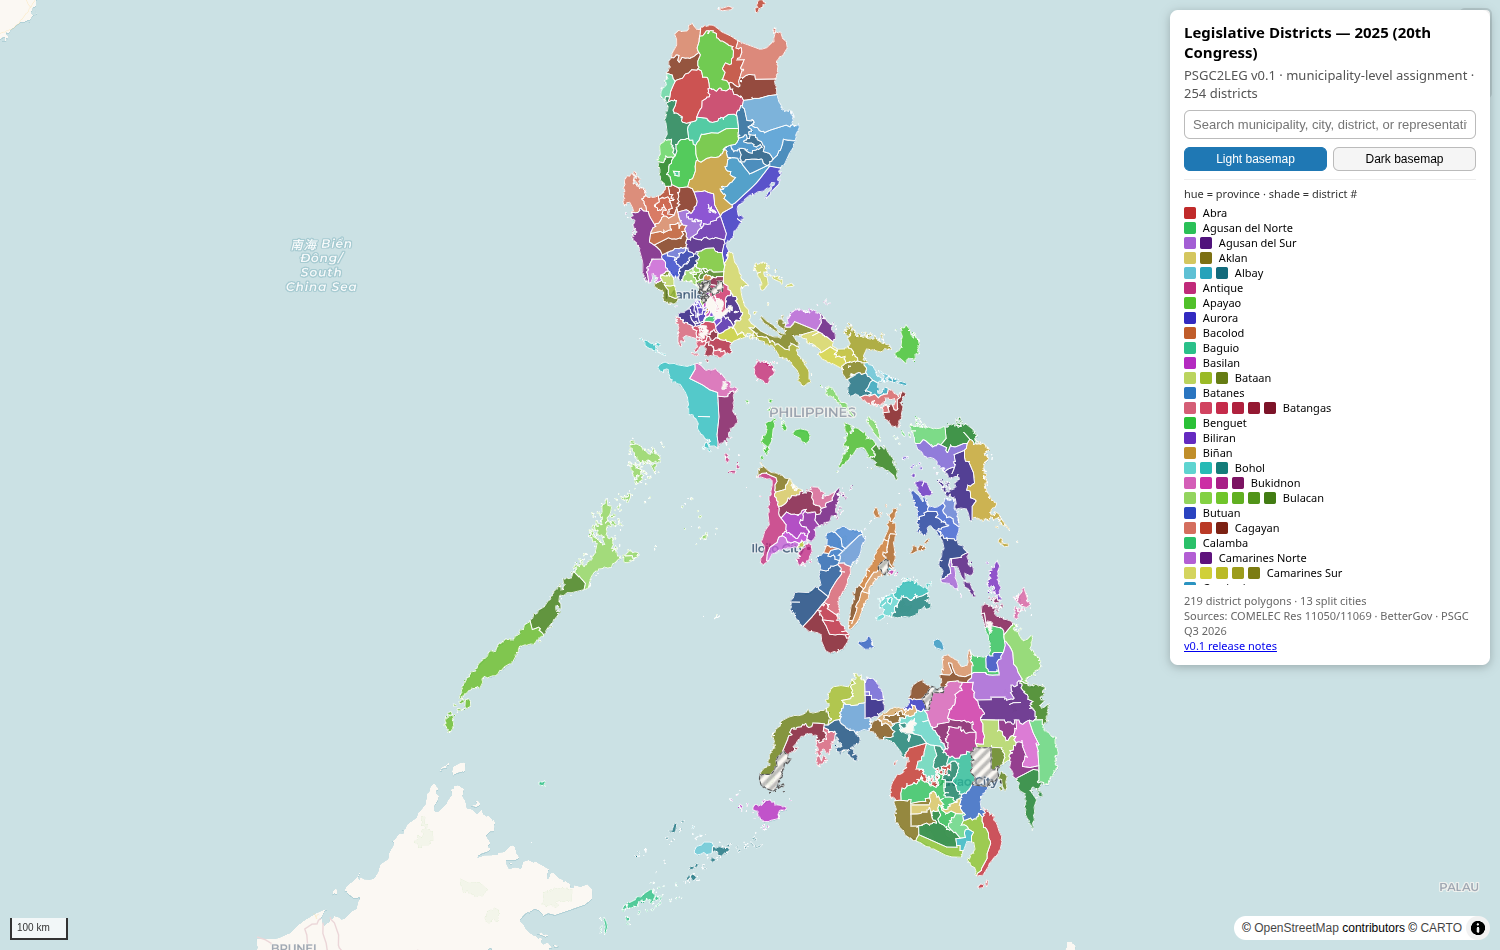
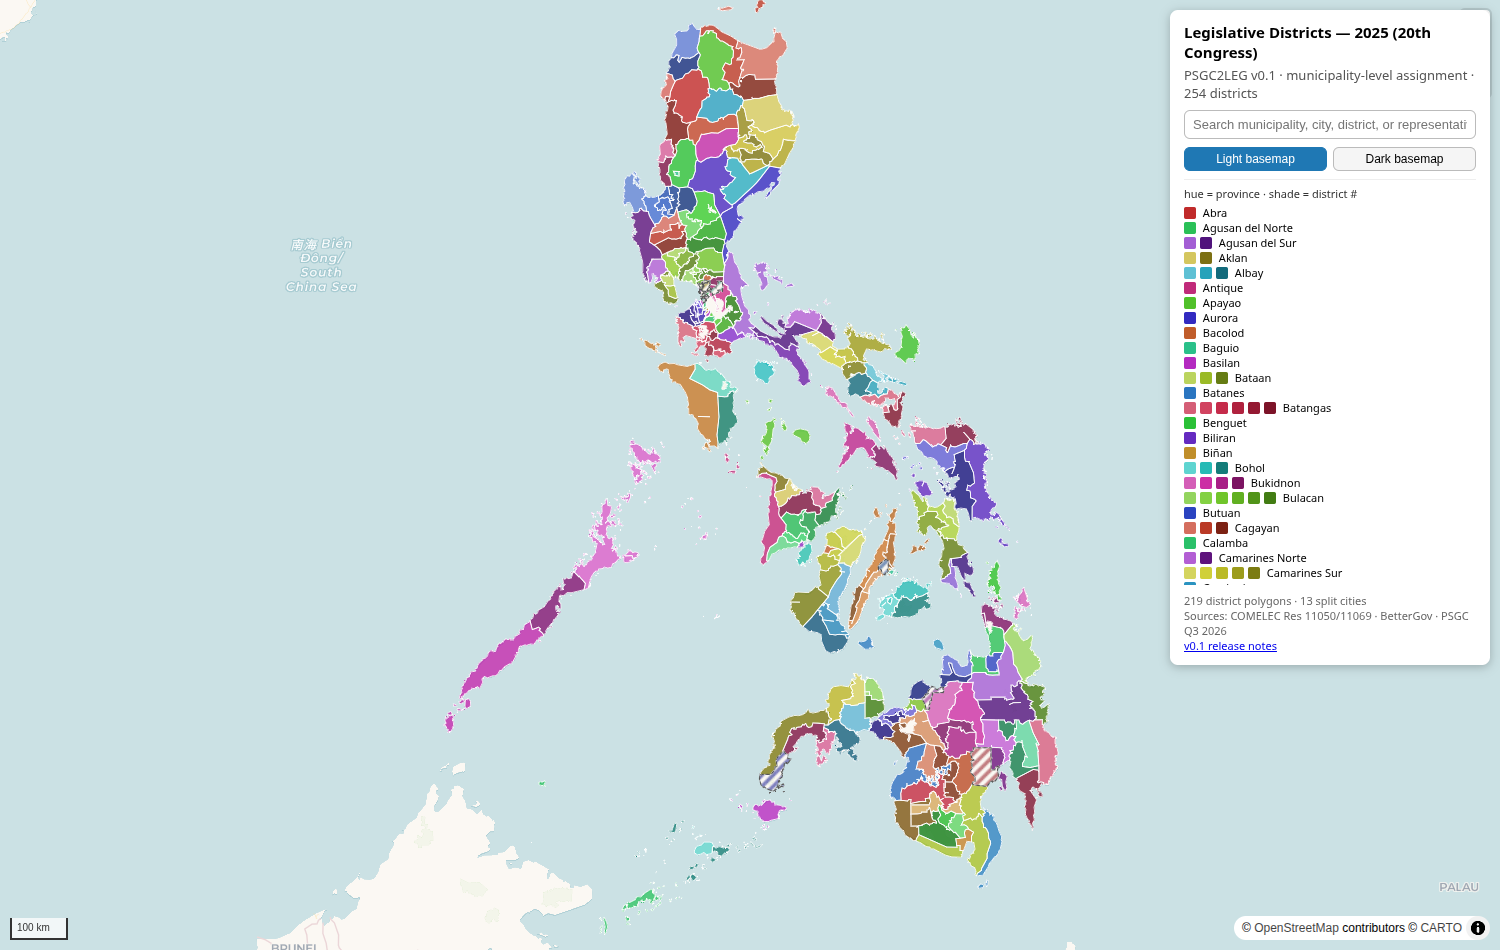
viz: distinct split-city stripes + district label layers
Split cities: each of the 13 now gets its own hue-tinted stripe pattern
(was uniform grey, which made Manila/QC/Caloocan indistinguishable —
exactly what a reader scanning Metro Manila needs to tell apart).
They join the same golden-angle hue sequence as provinces so they
cannot collide with province hues either. Implemented via data-driven
fill-pattern (cross-faded-data-driven per the bundled v8 spec) with one
registered image per city, re-registered after basemap swaps (hasImage
guard). Legend lists each split city with its tinted swatch.

Labels: two symbol layers using the basemap's own key-free CARTO glyph
pipeline (verified Open Sans Bold/Italic PBF ranges return 200):
- district-labels (z>=6.5 fade-in): jurisdiction + district_label,
  halo, sorted by district_no
- split-labels (z>=7.5): italic city names

Bug found while testing: text-opacity is a paint property, not layout —
in layout it fails layer validation and silently drops the whole layer
(MapLibre logs to console but addLayer does not throw). Both layers were
initially invisible because of this; moved to paint.

Verified headless (SwiftShader, single launch): 103/103 distinct hues,
13 distinct split patterns, 0 missing images before and after style
swap, 34 labels rendered at Bicol z8.2, split-city labels at Metro
Manila z10.5, search zooms (camarines sur -> 9.3), all 6 district
layers survive dark toggle, panel fits viewport, no page errors.

diff --git a/PSGC2LEG/viz/index.html b/PSGC2LEG/viz/index.html
@@ -111,6 +111,7 @@ let HUE_ORDER = [];             // sorted jurisdiction names (assigned in buildC
 let JURISDICTION_INFO = [];     // [{name, districts: Map(no->label)}]
 const colorCache = new Map();   // juris|no -> hsl string
 const swatches = new Map();     // juris -> [{no, color}] for the legend
+const SPLIT_HUES = new Map();   // split-city name -> registered stripe image name
 
 // Lightness 60%..28% with saturation easing up for darker shades.
 // 1st district = lightest, highest = darkest.
@@ -151,17 +152,48 @@ function buildColorDictionary() {
       .set(p.district_no ?? 0, p.district_label));
   }
   JURISDICTION_INFO = [...byName.entries()].map(([name, districts]) => ({ name, districts }));
+
+  // Split cities join the same golden-angle hue sequence. They used to be
+  // uniform grey, which made all 13 interchangeable — but a reader scanning
+  // Metro Manila needs Manila ≠ Caloocan ≠ Parañaque at a glance. Each gets
+  // its own hue, rendered as that hue's stripe pattern instead of a flat fill
+  // (stripes still signal "district split unresolved").
+  const splitNames = [...new Set(districtFeatures
+    .filter(f => f.properties.split)
+    .map(f => f.properties.jurisdiction))];
+  for (const n of splitNames) SPLIT_HUES.set(n, slug(n));
+
   // Sort deterministically so the golden-angle hue index is stable across
   // sessions and geojson rebuilds (feature order in the file can shift).
-  HUE_ORDER = JURISDICTION_INFO.map(j => j.name)
+  // Split cities are included so they cannot collide with a province hue.
+  HUE_ORDER = [...JURISDICTION_INFO.map(j => j.name), ...splitNames]
     .sort((a, b) => a.localeCompare(b, 'en', { sensitivity: 'base' }));
 }
 
-function makeStripePattern() {
+// Register one stripe image per split city, tinted with that city's hue.
+// Must run before the split-fill layer is added, and again after every
+// basemap swap (setStyle drops registered images).
+function addSplitStripeImages() {
+  for (const [name, imgName] of SPLIT_HUES) {
+    if (map.hasImage(imgName)) continue;
+    const idx = HUE_ORDER.indexOf(name);
+    const h = idx < 0 ? 0 : Math.round((idx * GOLDEN_ANGLE) % 360);
+    // mid-lightness, high saturation: dark enough to read over both the
+    // cream Voyager land and Dark Matter's near-black, not so dark it
+    // swallows the hatching
+    map.addImage(imgName, makeStripePattern(`hsl(${h}, 70%, 34%)`), { sdf: false });
+  }
+}
+
+// Stripe pattern for split cities. Parameterized by stroke colour so each
+// split city gets its *own* tint: 13 identical grey hatchings made Manila
+// and Caloocan and Cebu City indistinguishable from each other, which is
+// the one thing a reader needs when scanning the map.
+function makeStripePattern(stroke = '#8a8a8a') {
   const c = document.createElement('canvas');
   c.width = c.height = 8;
   const ctx = c.getContext('2d');
-  ctx.strokeStyle = '#8a8a8a';
+  ctx.strokeStyle = stroke;
   ctx.lineWidth = 2.5;
   ctx.beginPath();
   ctx.moveTo(-2, 10); ctx.lineTo(10, -2);
@@ -169,6 +201,13 @@ function makeStripePattern() {
   ctx.moveTo(6, 10);  ctx.lineTo(10, 6);
   ctx.stroke();
   return ctx.getImageData(0, 0, 8, 8);
+}
+
+// Safe image-name slug for split-city stripe patterns.
+function slug(s) {
+  return 'split-' + String(s).toLowerCase()
+    .normalize('NFKD').replace(/[\u0300-\u036f]/g, '')
+    .replace(/[^a-z0-9]+/g, '-').replace(/^-|-$/g, '');
 }
 
 function popupText(p) {
@@ -202,7 +241,11 @@ let selectedIds = new Set();
 // (Re)add the district source + layers. Called on initial load and again
 // after every basemap style swap (setStyle with diff:false drops them).
 function addDistrictLayers() {
-  map.addImage('stripes', makeStripePattern(), { sdf: false });
+  // grey fallback for any split city without a tinted pattern, then one
+  // per-city tinted stripe (re-registered after each basemap swap, since
+  // setStyle drops images — hasImage guards against duplicates)
+  if (!map.hasImage('stripes')) map.addImage('stripes', makeStripePattern(), { sdf: false });
+  addSplitStripeImages();
 
   map.addSource('districts', { type: 'geojson', data: districtData, generateId: true });
 
@@ -228,14 +271,16 @@ function addDistrictLayers() {
     }
   });
 
-  // split cities (striped)
+  // split cities (per-city tinted stripes)
   map.addLayer({
     id: 'split-fill',
     type: 'fill',
     source: 'districts',
     filter: ['==', ['get', 'split'], true],
     paint: {
-      'fill-pattern': 'stripes',
+      // data-driven (cross-faded-data-driven per the v8 spec): each split
+      // city renders its own hue-tinted stripe image registered above
+      'fill-pattern': ['coalesce', ['get', 'pattern'], 'stripes'],
       'fill-opacity': 0.55,
     }
   });
@@ -270,6 +315,59 @@ function addDistrictLayers() {
   });
   // dashed needs setPaintProperty after add (dasharray not transitionable)
   map.setPaintProperty('split-line-dash', 'line-dasharray', [2, 1.5]);
+
+  // district labels (zoomed-in reading). Uses the basemap's own glyph
+  // pipeline — CARTO serves PBF glyph ranges key-free (verified live), and
+  // the fonts below are the exact stacks the Voyager/Dark Matter styles
+  // already request, so no extra infrastructure.
+  map.addLayer({
+    id: 'district-labels',
+    type: 'symbol',
+    source: 'districts',
+    filter: ['!', ['coalesce', ['get', 'split'], false]],
+    layout: {
+      'text-field': [
+        'format',
+        ['get', 'jurisdiction'],
+        {'font-scale': 0.82},
+        '\n', {},
+        ['get', 'district_label'],
+        {'font-scale': 0.68, 'text-color': '#555'},
+      ],
+      'text-font': ['Open Sans Bold'],
+      'text-size': 12,
+      // fade labels in from z6.5, full by z8 (text-opacity is a *paint*
+      // property — putting it in layout makes layer validation fail and
+      // silently drops the whole layer)
+      'symbol-sort-key': ['get', 'district_no'],
+      'text-allow-overlap': false,
+    },
+    paint: {
+      'text-opacity': ['interpolate', ['linear'], ['zoom'], 6.5, 0, 8, 1],
+      'text-color': '#1a1a1a',
+      'text-halo-color': 'rgba(255,255,255,0.85)',
+      'text-halo-width': 1.4,
+    },
+  });
+  // split cities: label only the name, districts are unresolved anyway
+  map.addLayer({
+    id: 'split-labels',
+    type: 'symbol',
+    source: 'districts',
+    filter: ['==', ['get', 'split'], true],
+    layout: {
+      'text-field': ['get', 'jurisdiction'],
+      'text-font': ['Open Sans Italic'],
+      'text-size': 11,
+      'text-letter-spacing': 0.05,
+    },
+    paint: {
+      'text-opacity': ['interpolate', ['linear'], ['zoom'], 7.5, 0, 9, 1],
+      'text-color': '#333',
+      'text-halo-color': 'rgba(255,255,255,0.9)',
+      'text-halo-width': 1.3,
+    },
+  });
 
   hovered = null;  // feature-state was reset with the source
 }
@@ -345,7 +443,12 @@ map.on('load', async () => {
   // bake per-feature colors: province hue + district lightness ramp
   buildColorDictionary();
   for (const f of districtFeatures) {
-    if (!f.properties.split) {
+    if (f.properties.split) {
+      // split cities carry the name of their registered stripe image instead
+      // of a flat fill colour (fill-pattern is cross-faded-data-driven, so a
+      // per-feature expression works — verified against the bundled v8 spec)
+      f.properties.pattern = SPLIT_HUES.get(f.properties.jurisdiction) || 'stripes';
+    } else {
       f.properties.color = districtColor(f.properties.jurisdiction, f.properties.district_no);
     }
   }
@@ -353,7 +456,9 @@ map.on('load', async () => {
   wireInteractions();   // once; survives style swaps
   layersReady = true;
 
-  // legend: province families — hue = province, shade = district number
+  // legend: province families — hue = province, shade = district number;
+  // split cities listed with their own tinted stripe swatch (they share the
+  // same golden-angle hue sequence, so their legend rows match their fill)
   const lg = document.getElementById('legend');
   lg.innerHTML = '<div style="margin-bottom:4px;color:#333;">hue = province · shade = district #</div>';
   const jurisSorted = [...swatches.keys()].sort((a, b) =>
@@ -365,7 +470,15 @@ map.on('load', async () => {
       .join('');
     lg.insertAdjacentHTML('beforeend', `<div><span class="family">${shadeDots} ${juris}</span></div>`);
   }
-  lg.insertAdjacentHTML('beforeend', '<div><i class="split"></i>split city (multi-district)</div>');
+  for (const name of [...SPLIT_HUES.keys()].sort((a, b) =>
+      a.localeCompare(b, 'en', { sensitivity: 'base' }))) {
+    const idx = HUE_ORDER.indexOf(name);
+    const h = idx < 0 ? 0 : Math.round((idx * GOLDEN_ANGLE) % 360);
+    lg.insertAdjacentHTML('beforeend',
+      `<div><span class="family"><i title="${name} — split city, districts unresolved" ` +
+      `style="background:repeating-linear-gradient(45deg,hsl(${h},70%,34%) 0 3px,#fff 3px 6px)"></i>` +
+      ` ${name} <span style="color:#888">(split)</span></span></div>`);
+  }
   const nD = districtFeatures.filter(f => !f.properties.split).length;
   const nS = districtFeatures.filter(f => f.properties.split).length;
   document.getElementById('stats').innerHTML =

diff --git a/PSGC2LEG/viz/README.md b/PSGC2LEG/viz/README.md
@@ -15,10 +15,13 @@ Interactive **MapLibre GL JS** map of the 254 Philippine legislative districts
     (`analysis/web/src/GeoMap.jsx`), with light/dark toggle and automatic
     fallback to a blank style offline
   - district polygons colored **per province** (see Color scheme below)
+  - district labels at z≥6.5 and italic split-city labels at z≥7.5, using
+    the basemap's own key-free CARTO glyph pipeline (Open Sans)
   - hover popups (jurisdiction · district · representative · leg_id)
   - live search (municipality/city/district/representative) with
     zoom-to-match and blue highlight
-  - 13 split-city polygons rendered with diagonal stripe pattern + dashed
+  - 13 split-city polygons each with a **distinct hue-tinted stripe
+    pattern** (per-city pattern via data-driven `fill-pattern`) + dashed
     outline
 - `vendor/` — MapLibre GL JS 6.14.0 (ESM build) copied verbatim from the
   repo's pinned `analysis/web/node_modules/maplibre-gl/dist/`; serves with
@@ -56,8 +59,12 @@ one colour family — e.g. Camarines Sur's 5 districts are all the same hue at
   The range matters: an earlier 74% → 34% ramp was effectively invisible,
   since at 0.8 fill-opacity over CARTO Voyager's cream land 74% lightness
   reads as "basemap" and the national view looked blank.
-- **Split cities** — grey diagonal stripes + dashed outline (deliberate
-  ambiguity until barangay-level assignment lands).
+- **Split cities** — each gets its own hue (same golden-angle sequence as
+  provinces, so no collisions with them either), rendered as that hue's
+  stripe pattern + dashed outline. They used to be uniform grey, which made
+  Manila, QC, and Caloocan indistinguishable — the one thing a reader
+  scanning Metro Manila needs. Stripe ambiguity is deliberate until
+  barangay-level assignment lands.
 - Colors are baked into each feature's `color` property at load, so the
   fill layer is a plain `['get','color']` rather than a ~100-case `match`.
 
